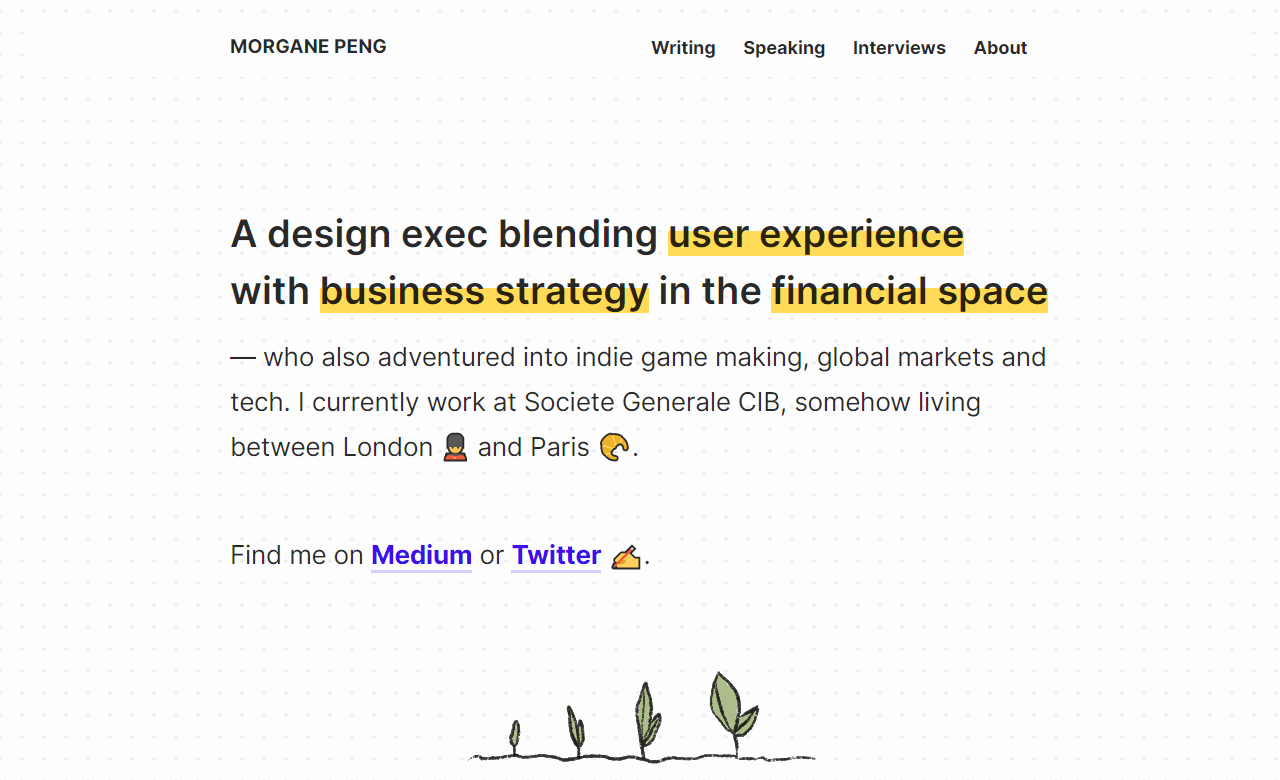
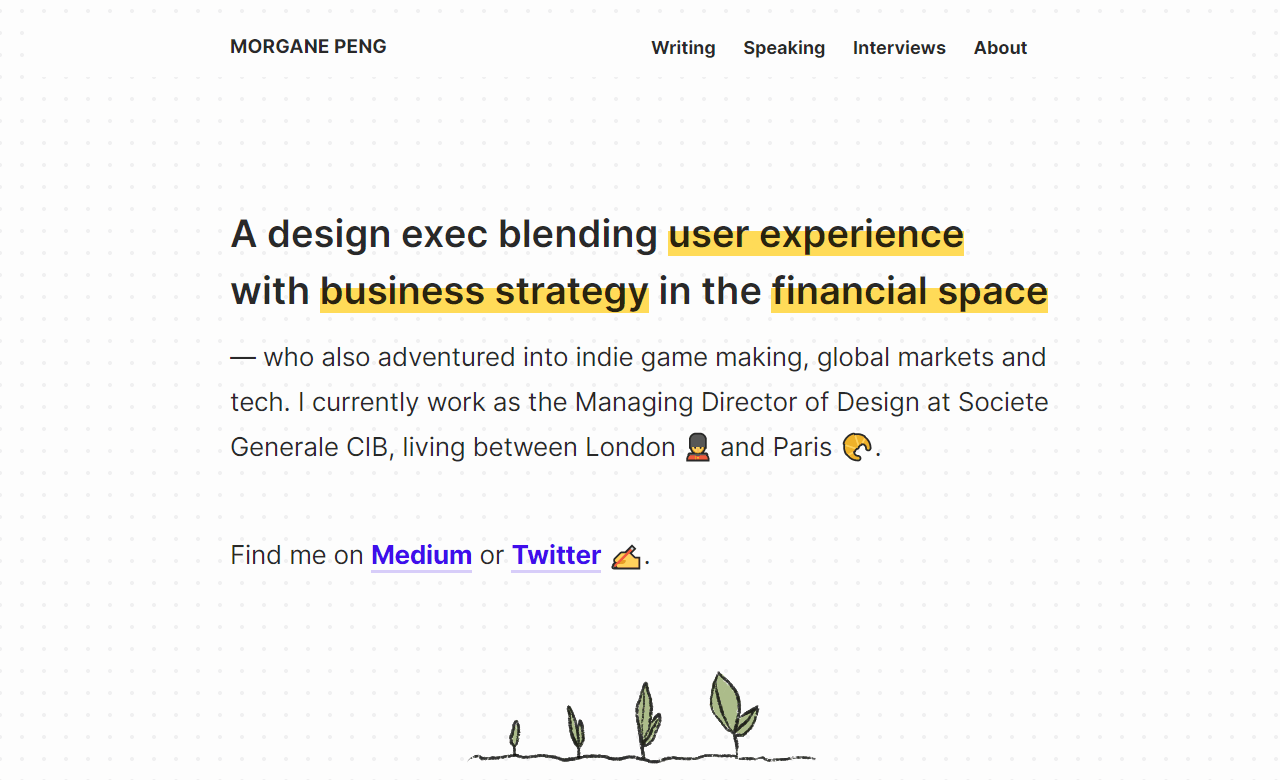
intro + conf update

Changed region(s): [[0.1562, 0.4923, 0.8125, 0.6154]]

diff --git a/speaking.html b/speaking.html
@@ -62,7 +62,8 @@
       <!-- <hr /> -->
       <ul class="mt_2 small text_muted">
         <li class="my_1">Presented at:</li>
-        <li><b>Interaction Design Foundation</b>, online, Apr 2022</a> <span class="badge_secondary">Upcoming</span></li>
+        <li><a href="https://config.figma.com/">Config</a>, online, May 2022</a> <span class="badge_secondary">Upcoming</span></li>
+        <li><a href="https://www.interaction-design.org/master-classes/how-to-balance-simplicity-and-complexity-in-ux">Interaction Design Foundation</a>, online, Apr 2022</a></li>
         <li><a href="https://www.ucdgathering.net/programme?year=2021">UCD Gathering</a>, online webinar, Nov 2021</a></li>
         <li><a href="https://uxpabostonconference2021.sched.com/">UXPA Boston conference</a>, online webinar, Sep 2021</a></li>
         <li><span class="text_bold">UX Days Conference</span>, online webinar, June 2021</a></li>
@@ -174,7 +175,7 @@
       <p>What makes a product successful? If you cannot clearly define what problem the product solves, then it’s not viable… it’s just sexy.</p>
       <ul class="small text_muted">
         <li class="my_1">Presented at:</li>
-        <li><a href="https://datamarketingparis.com/2019/">Data Marketing Paris</a> in Paris, France, Nov 2019</li>
+        <li><b>Data Marketing Paris</b> in Paris, France, Nov 2019</li>
         <li><span class="text_bold">Micro Frontend #codejam</span> in Bangalore, India, Oct 2019</li>
         <li><a href="http://www.marcusevans-conferences-paneuropean.com/marcusevans-conferences-event-details.asp?EventID=24151&SectorID=2#.W0EqINJKiUk">Marcus Evans Conference</a> in London, UK, Apr 2018</li>
       </ul>

diff --git a/index.html b/index.html
@@ -40,7 +40,7 @@
 
 <div class="container_md my_8">
   <h1 class="display mb_0">A design exec blending <span class="highlight">user experience</span> with <span class="highlight">business strategy</span> in the <span class="highlight">financial space</span></h1>
-  <p class="lead mb_4"> — who also adventured into indie game making, global markets and tech. I currently work at Societe Generale CIB, somehow living between London 💂 and Paris 🥐.</p>
+  <p class="lead mb_4"> — who also adventured into indie game making, global markets and tech. I currently work as the Managing Director of Design at Societe Generale CIB, living between London 💂 and Paris 🥐.</p>
   <p class="lead">Find me on <a href="https://medium.com/@morganepeng">Medium</a> or <a href="https://twitter.com/morganepeng">Twitter</a> ✍.</p>
   <div class="text_center">
     <img src="img/little_seeds.gif" width="383" height="123" class="mt_4 img_fluid" alt="Drawing of growing seeds" />
